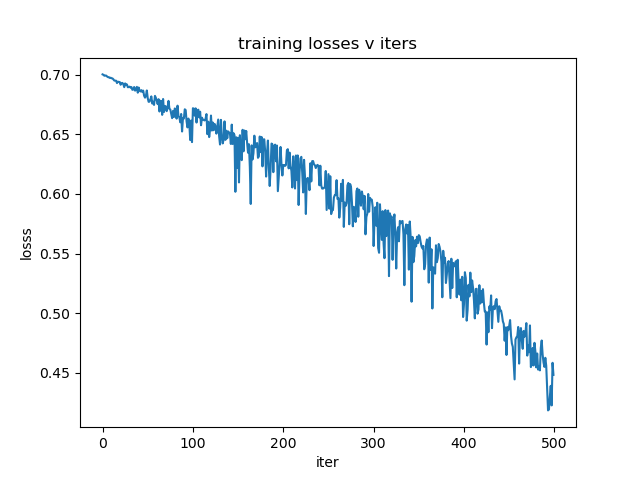
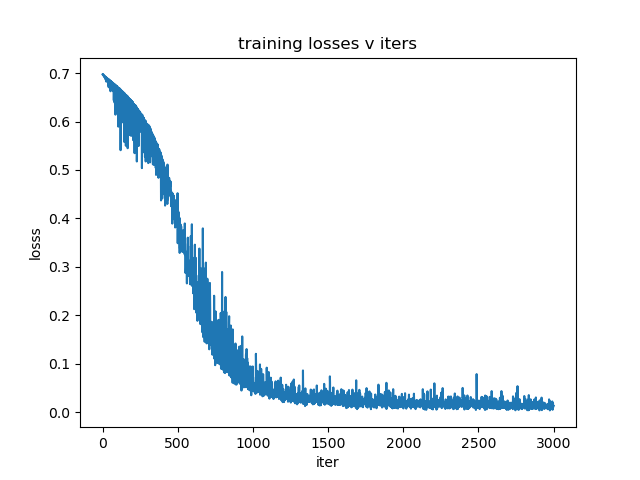
readme:

diff --git a/conway.py b/conway.py
@@ -5,14 +5,16 @@ from matplotlib.animation import FuncAnimation
 import jax
 import jax.numpy as jnp
 
+HEIGHT = 50
+WIDTH = 50
+P = 0.25
 ASSET_DIR = 'assets'
 
 _at = lambda arr, i,j : jax.lax.dynamic_slice(arr, (i,j), (1,1))[0][0]
 
-
-def conway_ij(i, j, grid):
+def n_live_neighbors(i, j, grid):
     height, width = grid.shape
-    live_neighbors = _at(grid, i-1, j-1)\
+    return _at(grid, i-1, j-1)\
                   +  _at(grid, i, j-1)\
                   +  _at(grid, (i+1)%height, j-1)\
                   +  _at(grid, i-1 , j)\
@@ -20,7 +22,10 @@ def conway_ij(i, j, grid):
                   +  _at(grid, i-1, (j+1)%width)\
                   +  _at(grid, i, (j+1)%width)\
                   +  _at(grid, (i+1)%height, (j+1)%width)
-    
+
+
+def conway_ij(i, j, grid):
+    live_neighbors = n_live_neighbors(i, j, grid)
     return jax.lax.cond((_at(grid, i, j) == 1.),
                         lambda x: jax.lax.cond(((live_neighbors<2.) | (live_neighbors>3.)),
                                                lambda y: jnp.array(0.), 
@@ -66,12 +71,8 @@ def animate_life(grids, title='game of life'):
 if __name__ == '__main__':
     key = jax.random.PRNGKey(0)
     generations = 100
-    height = 50
-    width = 50
-    p = 0.25
-
     key, grid_key = jax.random.split(key)
     grid0 = jax.random.choice(grid_key, jnp.array([1.,0.],dtype=jnp.float32), 
-                              shape=(height,width), p=jnp.array((p, 1-p)))
+                              shape=(HEIGHT,WIDTH), p=jnp.array((P, 1-P)))
     grids = simulate(grid0, generations)
     animate_life(grids, 'Game of Life')

diff --git a/deeponet.py b/deeponet.py
@@ -13,16 +13,26 @@ HEIGHT = 50
 WIDTH = 50
 P = 0.25
 
+_at = lambda arr, i,j : jax.lax.dynamic_slice(arr, (i,j), (1,1))[0][0]
+
 def evolve_grids(grid0s, till_generations, max_gen):
     def last_gen(grid0, till_generation, max_gen): 
         return simulate(grid0, max_gen)[till_generation] #why does this work
     return jax.vmap(last_gen, in_axes=(0,0,None))(grid0s, till_generations, max_gen)
 
 
+# def evaluate_deeponet_ij(model, i, j, grid):
+#     x, y = i/HEIGHT, j/WIDTH
+#     latent_b = model['b'](grid.flatten())
+#     latent_t = model['t'](jnp.array((x,y)))
+#     return jax.nn.sigmoid(jnp.dot(latent_b, latent_t))
+
+
 def evaluate_deeponet_ij(model, i, j, grid):
-    x, y = i/HEIGHT, j/WIDTH
+    val = _at(grid, i, j)
+    neighbors = n_live_neighbors(i, j, grid)
     latent_b = model['b'](grid.flatten())
-    latent_t = model['t'](jnp.array((x,y)))
+    latent_t = model['t'](jnp.array((val, neighbors)))
     return jax.nn.sigmoid(jnp.dot(latent_b, latent_t))
 
 

diff --git a/train.py b/train.py
@@ -21,13 +21,13 @@ branch = eqx.nn.MLP(HEIGHT*WIDTH, latent_size, 128, 3, key=b_key)
 deeponet = {'t':trunk,'b':branch}
 
 lr = 0.00001
-n = 100 #per curriculum
-n_grids = 32
-n_cells = 16
-max_gen = 10
-n_curriculum = 5
-update_max_gen_by = 10
-reset_optim = True
+n = 1000 #per curriculum
+n_grids = 16
+n_cells = 32
+max_gen = 20
+n_curriculum = 3
+update_max_gen_by = 20
+reset_optim = False
 
 optim = optax.adam(lr)
 opt_state = optim.init(eqx.filter(deeponet, eqx.is_array))

diff --git a/README.md b/README.md
@@ -1,1 +1,25 @@
-# conwaysdream
+# Deep-O-nets for learning Conway's Game transfer operator
+
+Attempts to train a operator learning model that can learn the transfer operator in Conway's game of life, using JAX. 
+
+## Contents:
+
+1. Conway: Contains a toroidal simulator completely written in `jax` while being `jit` friendly.
+
+2. DeepOnet: Contains a basic `MLP` based deepOnet to approximate the transfer operator. 
+
+## Results:
+Real:
+![alt text](<assets/Game of Life.gif>)
+
+
+Dream:
+![alt text](<assets/Dream of Life.gif>)
+
+
+
+## Todo
+
+1. Try CNN-based trunk.
+2. Try MLP-mixer trunk.
+
